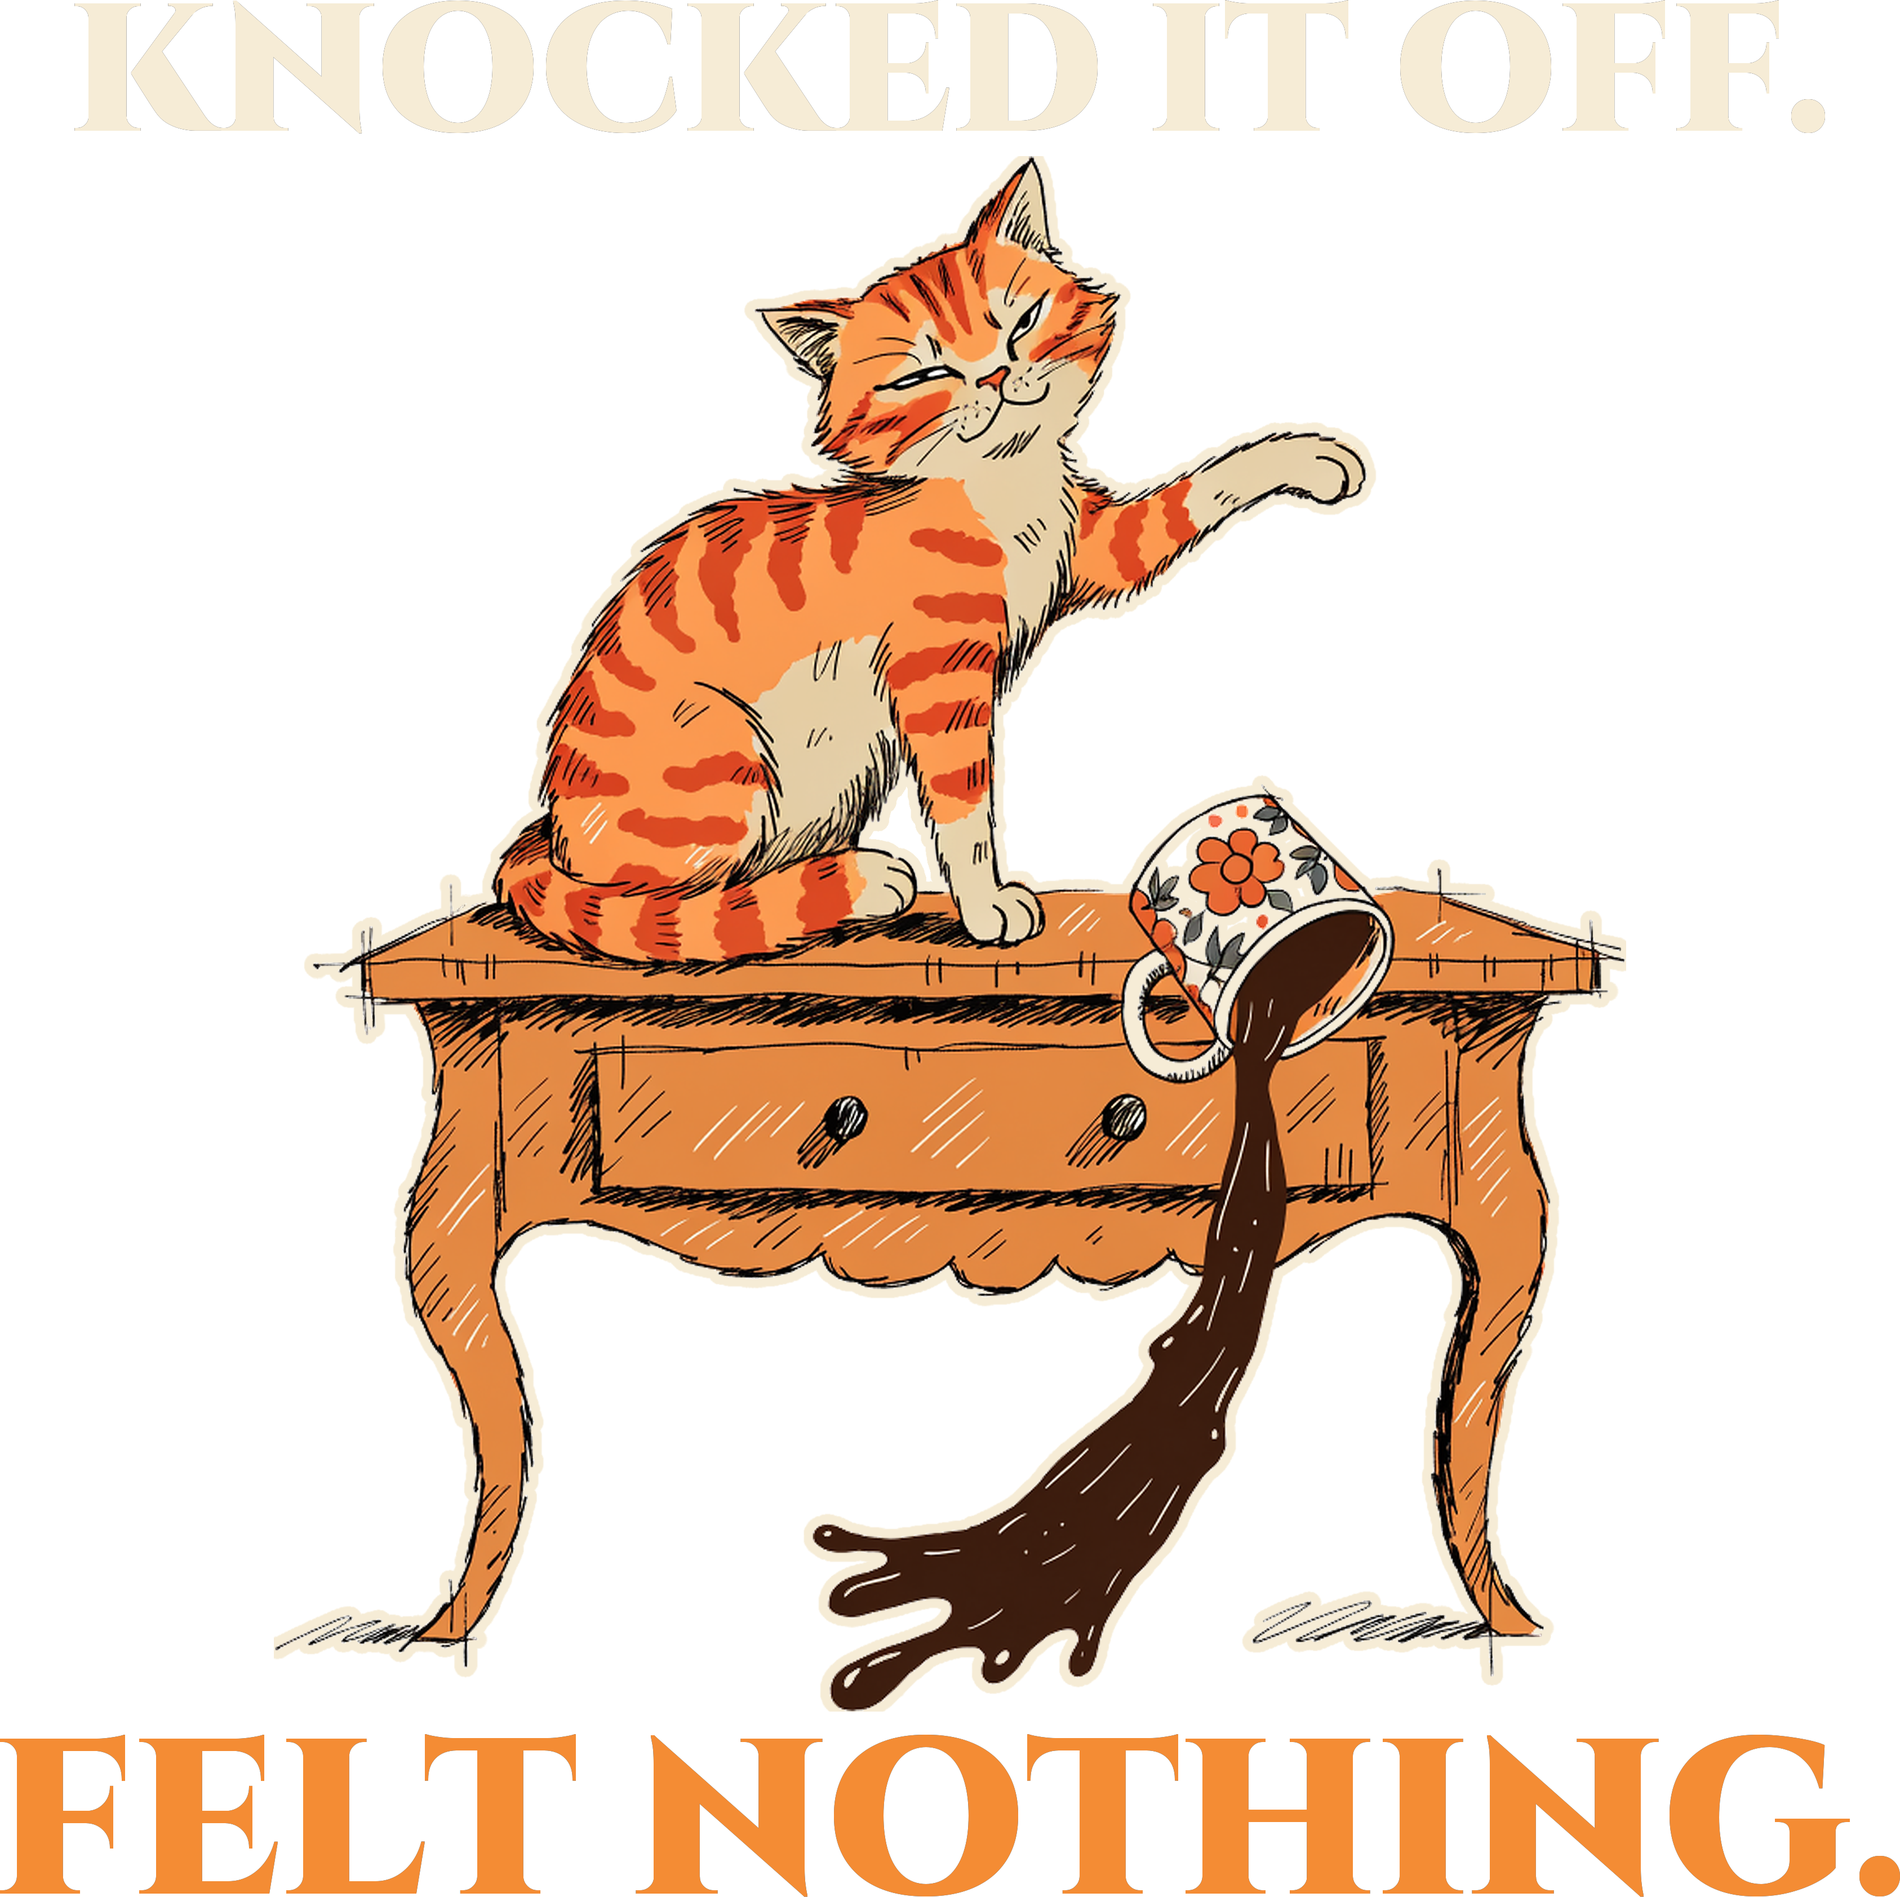
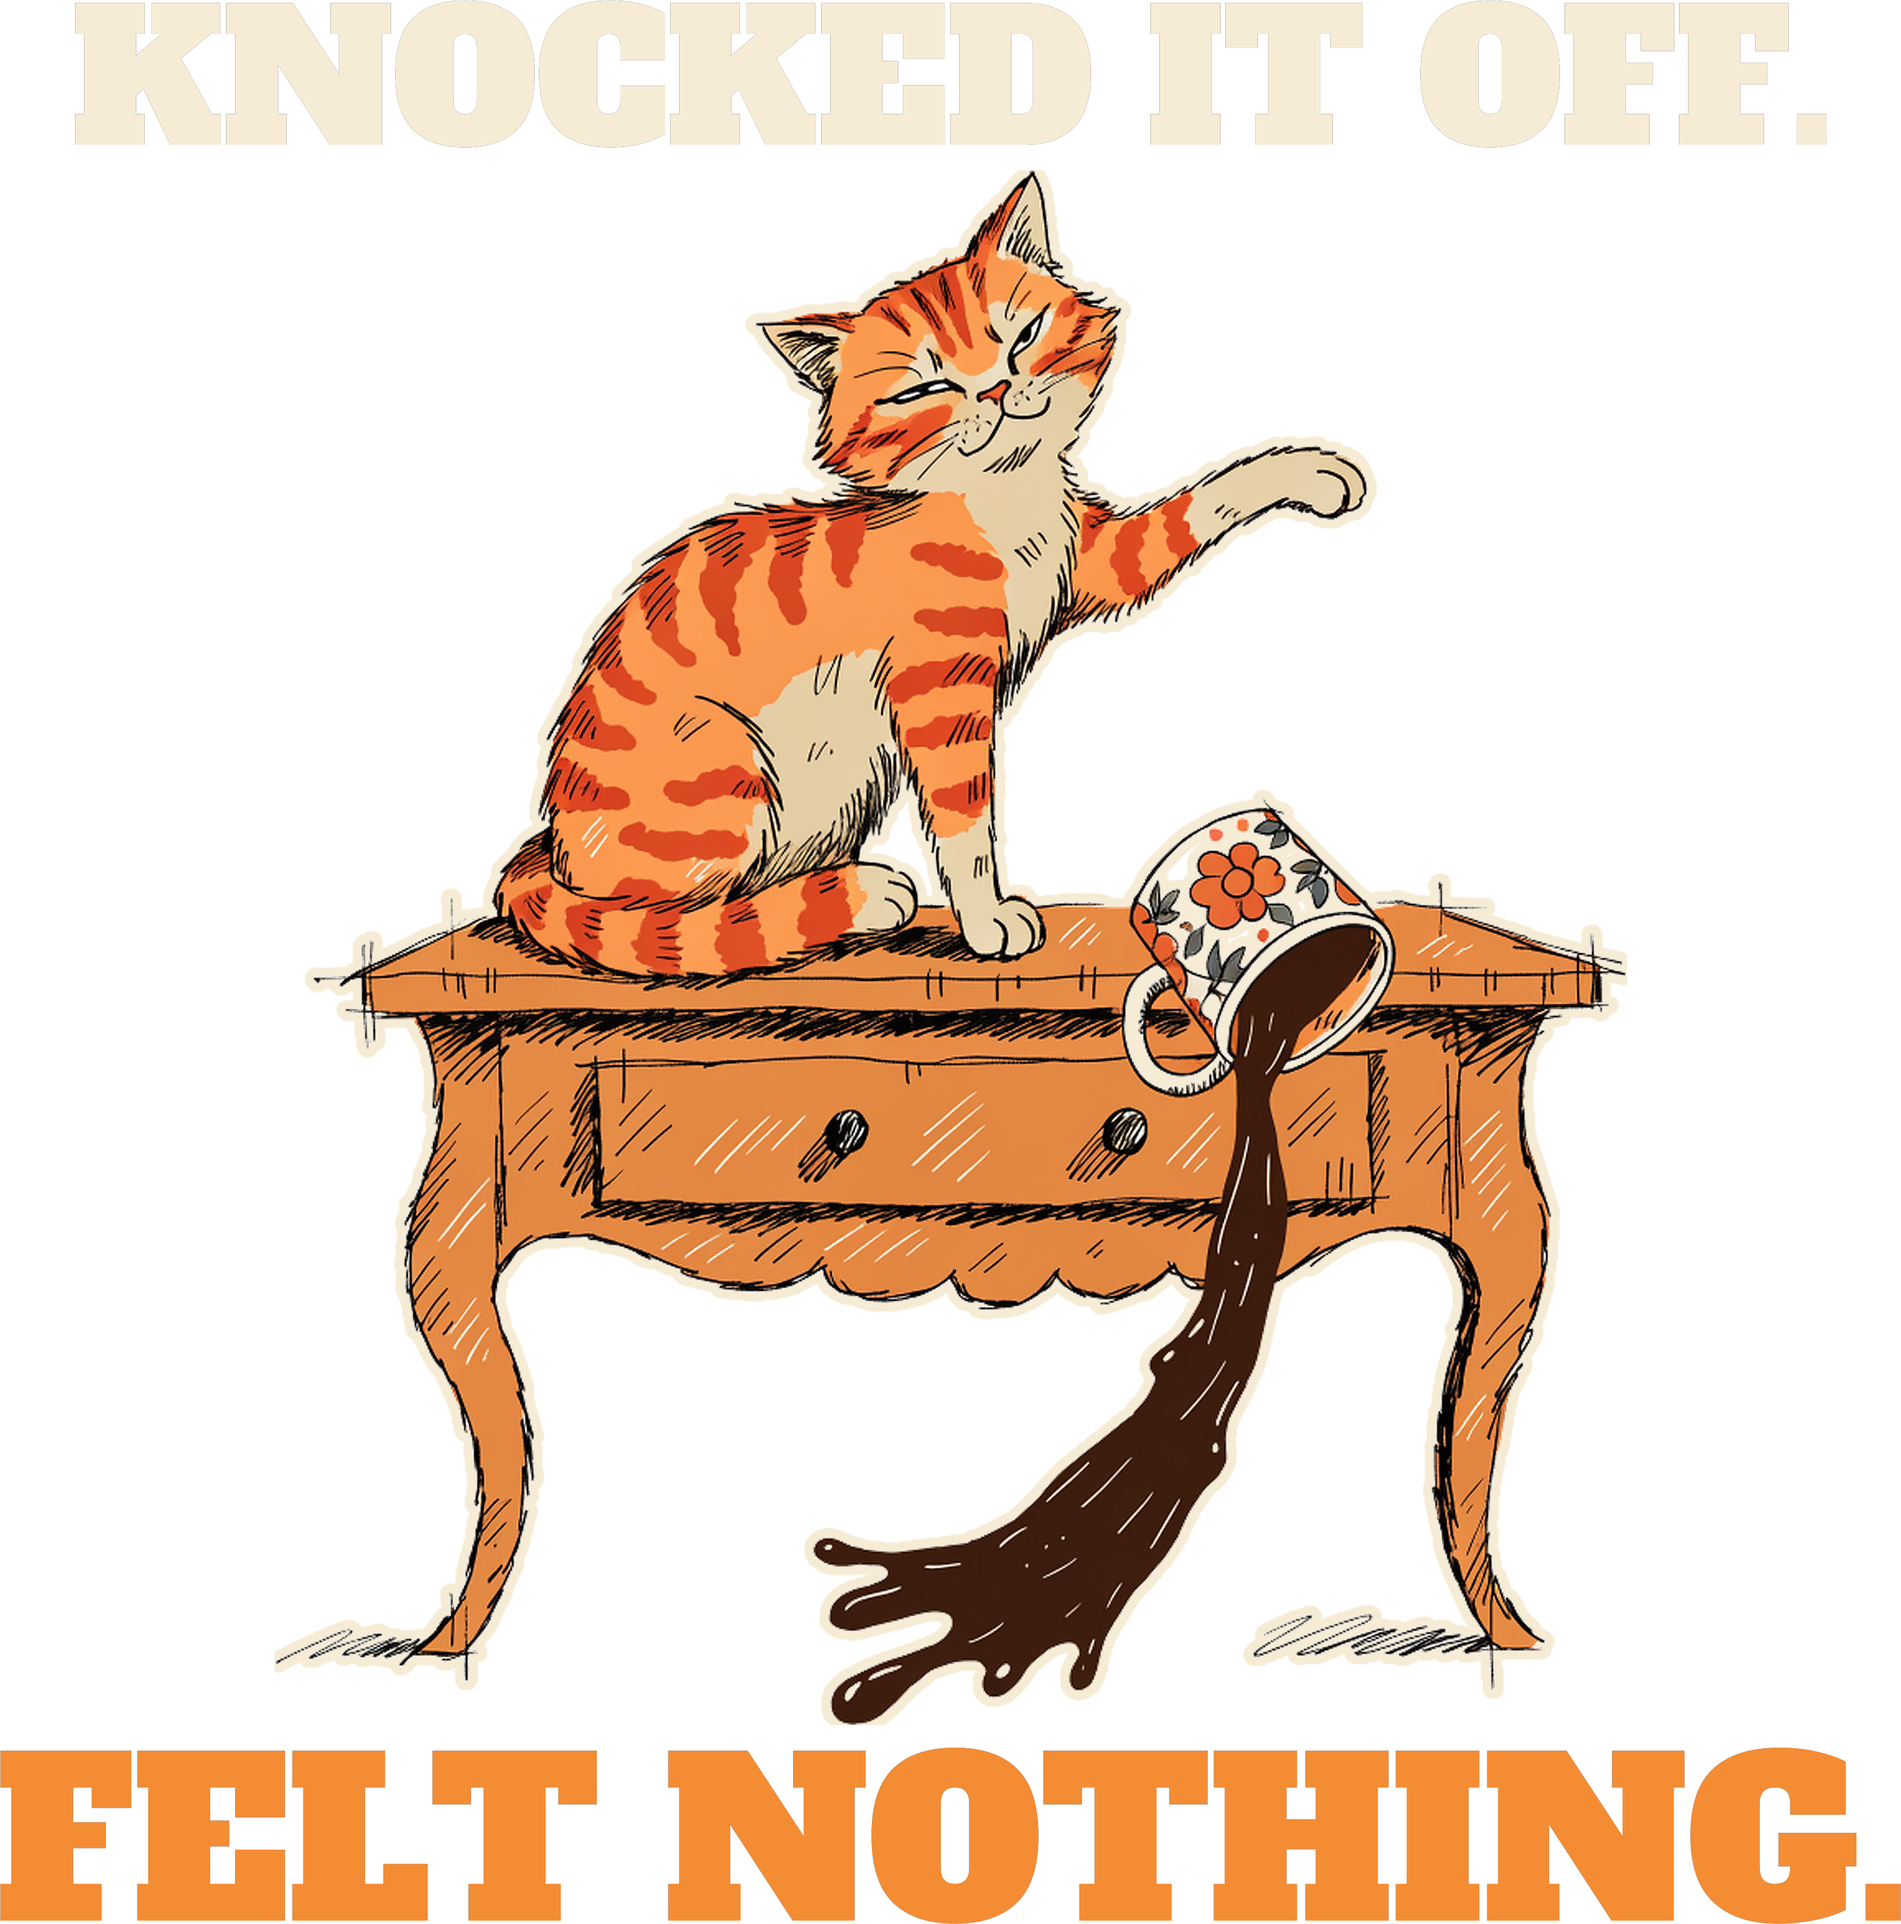
[C] 768 media

diff --git a/designs/c768/build.py b/designs/c768/build.py
@@ -15,7 +15,7 @@ def halo(a,px):
     h=Image.new('RGBA',a.size,CREAM); h.putalpha(Image.fromarray(d)); h.alpha_composite(a); return h
 CR=(246,236,214,255); MU=(244,140,52,255); GK=(58,34,20,255); RD=(160,64,28,255)
 for mode,(hc,pc,aa,bg) in {'navy':(CR,MU,halo(art,16),(31,42,77,255)),'sand':(GK,RD,art,(226,214,188,255))}.items():
-    h=line("KNOCKED IT OFF.",'cinzel',0.92,W,hc,hc,kw=3); p=line("FELT NOTHING.",'cinzel',1.0,W,pc,pc,kw=3)
+    h=line("KNOCKED IT OFF.",'alfa',0.92,W,hc,hc,kw=3); p=line("FELT NOTHING.",'alfa',1.0,W,pc,pc,kw=3)
     out=lockup(aa,W,[h],[p],f'768-{mode}',{mode:bg},g=40)
     out=out.crop(out.getchannel('A').point(lambda v:255 if v>10 else 0).getbbox()); out.save(f'docs/print-files/768-{mode}.png',dpi=(300,300))
     th=h.height+p.height
